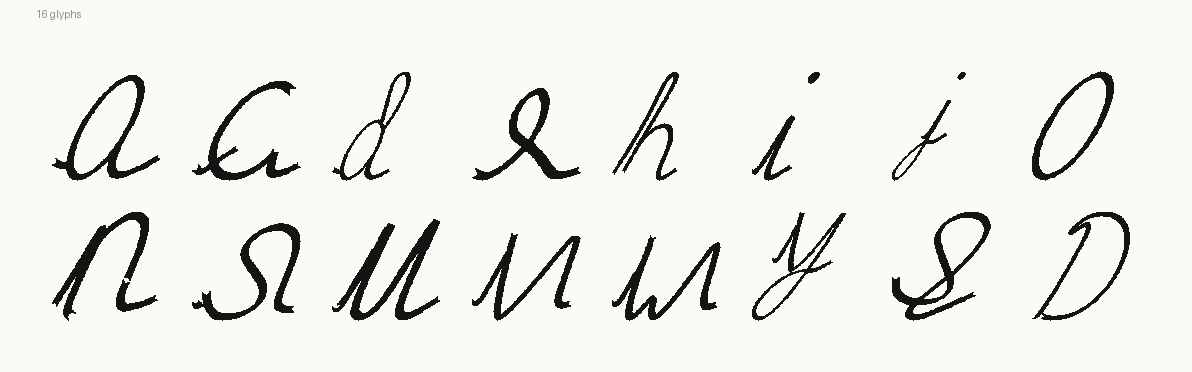
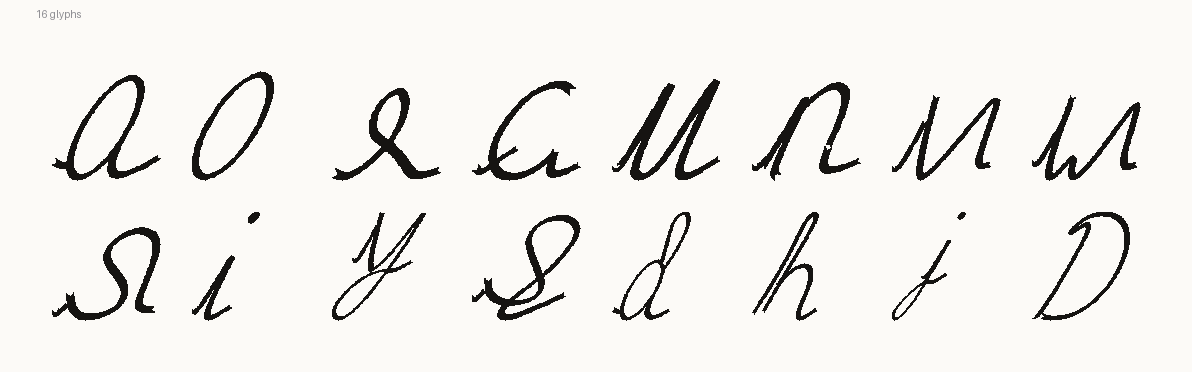
refactor(examples): gate zayju_script with designer-order sequence
CONTROL_GLYPH a, DESIGN_ORDER unlock via build_charset_sequential;
BRIEF_SENTENCE is late specimen only. Rebuild tracked proof PNGs.

diff --git a/examples/zayju_script/design.py b/examples/zayju_script/design.py
@@ -1,10 +1,16 @@
 """Florid English letter-writing script — hand-built stroke topologies.
 
-Brief: ``zayju Discover everywhere``.
+Late specimen phrase (not the design driver): ``zayju Discover everywhere``.
 
-Pipeline (library-first):
-1. Dense slanted centerlines → polyline→cubic fit → contrast-nib expand
-2. ``trace_letter`` heal + strip + blend (typekernel base APIs)
+Designer order (required):
+1. Control glyphs first (``a`` body + ``o`` bowl), then one letter at a time
+2. Each new glyph is style-checked against control / previous via
+   ``typekernel.qa.style_consistency``
+3. Only after the gated sequence unlocks the charset do we compose the brief PNG
+
+Pipeline (library-first per glyph):
+- Dense slanted centerlines → polyline→cubic fit → contrast-nib expand
+- ``trace_letter`` heal + strip + blend
 
 Slant is baked into coordinates — not ``oblique_font``.
 """
@@ -310,16 +316,18 @@ def glyph_j(ctx: DesignContext | None = None) -> ComposedGlyph:
 
 
 def glyph_r(ctx: DesignContext | None = None) -> ComposedGlyph:
+    entry = _poly("entry", _entry_rail(12, 48), thickness=NIB_THICKNESS * 0.88)
     stem = _poly(
         "stem",
-        [(50, ENTRY_Y), (65, 200), (80, 400), (95, 45), (140, 15)],
+        [(50, ENTRY_Y), (62, 200), (75, 380), (90, 50), (130, 20)],
+        thickness=NIB_THICKNESS * 0.95,
     )
     shoulder = _poly(
         "shoulder",
-        [(80, 290), (140, 390), (220, 375), (255, 270), (265, 150)],
+        [(75, 280), (135, 380), (215, 365), (250, 260), (260, 140)],
     )
-    exit_ = _poly("exit", [(265, 150), *_exit_rail(285, 410)])
-    return _trace(stem, shoulder, exit_, ctx=ctx)
+    exit_ = _poly("exit", [(260, 140), *_exit_rail(280, 410)])
+    return _trace(entry, stem, shoulder, exit_, ctx=ctx)
 
 
 def glyph_s(ctx: DesignContext | None = None) -> ComposedGlyph:
@@ -343,7 +351,7 @@ def glyph_s(ctx: DesignContext | None = None) -> ComposedGlyph:
             (440, EXIT_Y + 20),
         ],
     )
-    entry = _poly("entry", _entry_rail(15, 55, y=ENTRY_Y + 35), thickness=NIB_THICKNESS * 0.88)
+    entry = _poly("entry", _entry_rail(15, 55, y=ENTRY_Y), thickness=NIB_THICKNESS * 0.88)
     return _trace(body, entry, ctx=ctx)
 
 
@@ -384,7 +392,7 @@ def glyph_v(ctx: DesignContext | None = None) -> ComposedGlyph:
             (460, EXIT_Y + 25),
         ],
     )
-    entry = _poly("entry", _entry_rail(18, 50, y=ENTRY_Y + 28) + [(55, 310)], thickness=NIB_THICKNESS * 0.88)
+    entry = _poly("entry", _entry_rail(18, 50, y=ENTRY_Y) + [(50, 280)], thickness=NIB_THICKNESS * 0.88)
     return _trace(body, entry, ctx=ctx)
 
 
@@ -460,7 +468,8 @@ def glyph_z(ctx: DesignContext | None = None) -> ComposedGlyph:
             (415, EXIT_Y + 22),
         ],
     )
-    return _trace(body, ctx=ctx)
+    entry = _poly("entry", _entry_rail(12, 45, y=ENTRY_Y), thickness=NIB_THICKNESS * 0.88)
+    return _trace(entry, body, ctx=ctx)
 
 
 def glyph_D(ctx: DesignContext | None = None) -> ComposedGlyph:
@@ -510,10 +519,100 @@ BUILDERS: dict[str, Callable[[DesignContext | None], ComposedGlyph]] = {
 }
 
 
+# Control first (body rails + bowl), then remaining letters one at a time.
+# Ascenders/descenders/caps come after body letters share stem/rail language.
+DESIGN_ORDER: Final[tuple[str, ...]] = (
+    "a",  # control: entry/exit rails + bowl
+    "o",  # bowl control
+    "e",
+    "c",
+    "u",
+    "r",
+    "v",
+    "w",
+    "s",
+    "i",
+    "y",
+    "z",
+    "d",
+    "h",
+    "j",
+    "D",
+)
+CONTROL_GLYPH: Final = "a"
+
+# Late specimen only — never the design method.
+BRIEF_SENTENCE: Final = "zayju Discover everywhere"
+CHARSET: Final = "".join(DESIGN_ORDER)
+
+
 def build_charset(ctx: DesignContext | None = None) -> dict[str, ComposedGlyph]:
+    """Build every letter (no style gate). Prefer :func:`build_charset_sequential`."""
     c = ctx or script_context()
-    return {ch: fn(c) for ch, fn in BUILDERS.items()}
+    return {ch: BUILDERS[ch](c) for ch in DESIGN_ORDER}
 
 
-BRIEF_SENTENCE = "zayju Discover everywhere"
-CHARSET = "".join(BUILDERS)
+_CLOSED_BOWLS: Final = frozenset({"o", "O"})
+_ASCENDERS: Final = frozenset({"d", "h", "D", "l", "b", "k", "f", "t"})
+_DESCENDERS: Final = frozenset({"j", "y", "g", "p", "q"})
+
+
+def _script_skip_checks(ref: str, cand: str) -> tuple[str, ...]:
+    """Omit metrics that are meaningless across topology roles."""
+    skip: list[str] = []
+    if ref in _CLOSED_BOWLS or cand in _CLOSED_BOWLS:
+        skip.extend(["entry_rail_y", "exit_rail_y", "exit_slant_deg"])
+    if cand in _ASCENDERS or ref in _ASCENDERS:
+        skip.extend(["ink_ymax", "bowl_center_y", "exit_rail_y", "exit_slant_deg"])
+    if cand in _DESCENDERS or ref in _DESCENDERS:
+        skip.extend(["ink_ymin", "bowl_center_y", "entry_rail_y"])
+    # Dotted / short letters: vertical exits are not writing rails.
+    if cand in {"i", "j"} or ref in {"i", "j"}:
+        skip.extend(["exit_rail_y", "exit_slant_deg", "ink_ymax", "bowl_center_y"])
+    return tuple(dict.fromkeys(skip))
+
+
+def script_sequence_tolerances():
+    """Florid-script budgets: shared stem/rails; contrast slack for open vs closed."""
+    from typekernel.qa.style_consistency import StyleConsistencyTolerances
+
+    return StyleConsistencyTolerances(
+        stem_median=18.0,
+        contrast_ratio=1.45,
+        entry_rail_y=52.0,
+        exit_rail_y=52.0,
+        exit_slant_deg=110.0,  # florid diagonals (z) vs round exits
+        bowl_center_y=60.0,
+        ink_ymin=60.0,
+        ink_ymax=120.0,
+    )
+
+
+def build_charset_sequential(
+    ctx: DesignContext | None = None,
+    *,
+    tolerances: object | None = None,
+    compare_to_previous: bool = True,
+) -> tuple[dict[str, ComposedGlyph], object]:
+    """Design-order build: one glyph at a time, then style-check vs control/previous.
+
+    Returns ``(drawn, sequence_report)``. Agents must not treat a failing report
+    as success — fix the candidate glyph before unlocking the next letter.
+    """
+    from typekernel.qa.style_consistency import check_design_sequence
+
+    c = ctx or script_context()
+    drawn: dict[str, ComposedGlyph] = {}
+    for ch in DESIGN_ORDER:
+        # One at a time — do not batch-construct without reading the prior letter.
+        drawn[ch] = BUILDERS[ch](c)
+    tol = tolerances if tolerances is not None else script_sequence_tolerances()
+    report = check_design_sequence(
+        drawn,
+        DESIGN_ORDER,
+        control=CONTROL_GLYPH,
+        tolerances=tol,  # type: ignore[arg-type]
+        compare_to_previous=compare_to_previous,
+        skip_checks_for_pair=_script_skip_checks,
+    )
+    return drawn, report

diff --git a/examples/zayju_script/build.py b/examples/zayju_script/build.py
@@ -1,4 +1,4 @@
-"""Build ZayJu Letter Script Regular — brief phrase proofs + OTF.
+"""Build ZayJu Letter Script Regular — sequential style gate, then specimen proofs + OTF.
 
 Run from repo root::
 
@@ -21,6 +21,14 @@ ROOT = Path(__file__).resolve().parents[2]
 sys.path.insert(0, str(ROOT / "src"))
 sys.path.insert(0, str(Path(__file__).resolve().parent))
 
+from design import (
+    BRIEF_SENTENCE,
+    CHARSET,
+    CONTROL_GLYPH,
+    DESIGN_ORDER,
+    build_charset_sequential,
+    script_context,
+)
 from PIL import Image, ImageDraw
 
 from typekernel.compile import build_font
@@ -32,8 +40,6 @@ from typekernel.parts.compose import ComposedGlyph
 from typekernel.parts.metrics import KernTable, fit_glyph_pair_kerns, rhythm_from_control_glyphs
 from typekernel.qa.proof import proof_charset_grid
 from typekernel.qa.specimen_png import render_outline_png
-
-from design import BRIEF_SENTENCE, CHARSET, build_charset, script_context
 
 OUT_DIR = Path(__file__).resolve().parent / "out"
 FAMILY = "ZayJu Letter Script"
@@ -211,8 +217,25 @@ def render_phrase_png(
 def main() -> int:
     OUT_DIR.mkdir(parents=True, exist_ok=True)
     ctx = script_context()
-    drawn = build_charset(ctx)
-    rhythm = rhythm_from_control_glyphs(drawn["u"], drawn["o"])
+    # Designer order: one glyph at a time + style gate (not phrase-first).
+    drawn, style_report = build_charset_sequential(ctx)
+    print(
+        f"style sequence control={CONTROL_GLYPH} "
+        f"order={''.join(DESIGN_ORDER)} "
+        f"passed={style_report.passed} "
+        f"unlocked={''.join(style_report.unlocked)}"
+    )
+    if not style_report.passed:
+        for rep in style_report.failures:
+            bits = ", ".join(
+                f"{c.name} Δ={c.delta:.1f}>{c.limit}"
+                for c in rep.failures
+                if c.delta is not None
+            )
+            print(f"  FAIL {rep.reference_name}->{rep.candidate_name}: {bits}")
+        print("Fix failing glyphs before treating the brief PNG as a design success.")
+        return 1
+    rhythm = rhythm_from_control_glyphs(drawn["a"], drawn["o"])
     spaced = space_font(drawn, ctx, rhythm=rhythm)
     kern = fit_glyph_pair_kerns(spaced, PHRASE_PAIRS, target=rhythm)
 
@@ -266,7 +289,7 @@ def main() -> int:
         print(f"worst pair: {worst[1]}{worst[2]} gap={worst[0]:.1f} kern={worst[3]:.1f}")
 
     print("NOTE: Controls sentence_gate does not apply to this skeleton face.")
-    print("Accept visually via sentence_brief*.png (filled composition).")
+    print("Style sequence gate passed; brief PNG is a late specimen only.")
     return 0
 
 

diff --git a/tests/examples/test_zayju_script.py b/tests/examples/test_zayju_script.py
@@ -55,3 +55,15 @@ def test_zayju_script_build_script() -> None:
     assert proc.returncode == 0, proc.stderr or proc.stdout
     assert "sentence_brief.png" in proc.stdout
     assert (EXAMPLE / "out" / "sentence_brief.png").is_file()
+
+
+def test_zayju_script_sequential_style_gate_passes() -> None:
+    """Charset must unlock under designer-order style consistency."""
+    from examples.zayju_script import design
+
+    _drawn, report = design.build_charset_sequential()
+    assert report.passed, [
+        (r.reference_name, r.candidate_name, [c.name for c in r.failures])
+        for r in report.failures
+    ]
+    assert "".join(report.unlocked) == "".join(design.DESIGN_ORDER)

diff --git a/examples/zayju_script/README.md b/examples/zayju_script/README.md
@@ -1,19 +1,35 @@
 # ZayJu Letter Script
 
-Florid English **letter-writing script** (花体信件书写体) for the brief phrase:
+Florid English **letter-writing script** (花体信件书写体).
+
+Late specimen phrase (after the charset is designed under gates):
 
 > zayju Discover everywhere
+
+## Designer order (required)
+
+This example is **not** phrase-first. Agents must not define `BRIEF_SENTENCE` and
+then `build_charset()` as the design method.
+
+1. **Control glyphs** — `a` (entry/exit rails + bowl), then `o` (bowl).
+2. **One letter at a time** along `DESIGN_ORDER` in `design.py`.
+3. After each letter, run `typekernel.qa.style_consistency` against the control
+   and the previous unlocked glyph (`build_charset_sequential`).
+4. Only when the sequence unlocks the full charset compose spacing/kern and the
+   brief PNG specimen.
+
+Shared constants (`NIB_*`, `ENTRY_Y` / `EXIT_Y`) are necessary but **not
+sufficient** — adjacent style checks catch drift the constants miss.
 
 ## Honest topology
 
 This is **not** a slanted humanist/sans with `lean` / `oblique_font` / tracking.
 Each glyph is a calligraphy **skeleton** expanded with a contrast nib via
-`trace_letter`, then **self-union healed** and tiny sliver contours stripped
-(so expand self-intersections do not leave hollow joins). Writing slant is
-baked into centerline coordinates. Shared entry/exit rails aim at semi-connected writing.
+`trace_letter` (library heal / strip / cubic refit). Writing slant is baked into
+centerline coordinates. Shared entry/exit rails aim at semi-connected writing.
 
-Charset: letters required by the brief (`a c d e h i j o r s u v w y z D`)
-plus space. Semi-connected flourishes — not a full connected copperplate family.
+Charset: letters in `DESIGN_ORDER` plus space. Semi-connected flourishes — not a
+full connected copperplate family.
 
 ## Build
 
@@ -22,23 +38,26 @@ pip install -e ".[compile,specimen,boolean]"
 PYTHONPATH=src python examples/zayju_script/build.py
 ```
 
+`build.py` exits non-zero if the sequential style gate fails.
+
 Outputs under `out/`:
 
 | File | Role |
 | --- | --- |
 | `ZayJuLetterScript-Regular.otf` / `.ttf` | Installable Regular |
-| `sentence_brief.png` | Brief phrase (filled composition, body) |
-| `sentence_brief_display.png` | Brief phrase (filled composition, display) |
-| `grid.png` | Used-letter inventory (from OTF) |
-| `glyph_D.png` / `glyph_a.png` | Flourish / bowl checks |
-| `ZayJuLetterScript-Regular.otf` | Installable; some apps rasterize dense expand outlines coarsely — prefer PNG proofs for review |
+| `sentence_brief.png` | Late specimen phrase (filled composition) |
+| `sentence_brief_display.png` | Late specimen (display size) |
+| `grid.png` | Used-letter inventory |
+| `glyph_*.png` | Per-glyph checks |
 
 ## Gates
 
-`check_sentence_gate` / Controls L0 **do not apply** — this face is not derived
-from `Controls.build_all`. Acceptance is visual (brief PNGs + OTF).
+- **Required:** `build_charset_sequential` / `check_design_sequence` (style
+  consistency vs control + previous).
+- Controls `check_sentence_gate` does **not** apply — this face is not derived
+  from `Controls.build_all`.
 
 ## Files
 
-- `design.py` — metrics + per-glyph skeletons
-- `build.py` — space, phrase kern, compile, proofs
+- `design.py` — metrics, `DESIGN_ORDER`, per-glyph skeletons, sequential builder
+- `build.py` — style gate, space, phrase kern, compile, proofs
